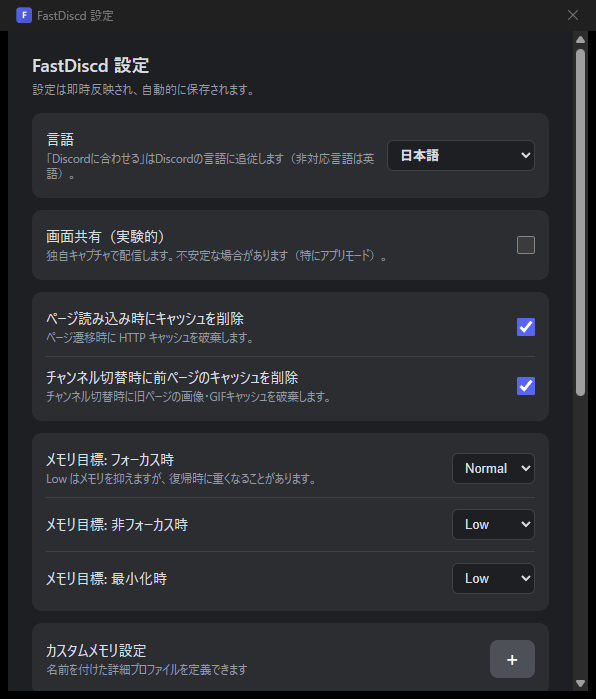
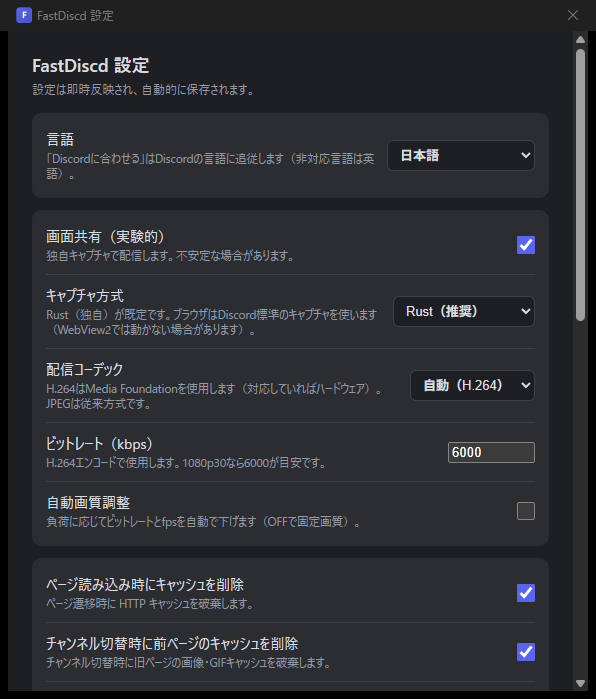
fix: settings save (null refs), add save&restart, cache clear feedback, adaptive quality toggle default off

diff --git a/src/settings.html b/src/settings.html
@@ -150,6 +150,12 @@
                 <div class="hint" data-i18n="bitrate.hint"></div>
             </div>
             <input type="number" id="screenShareBitrateKbps" min="500" max="30000" step="500" />
+        </div>        <div class="row">
+            <div class="label">
+                <span data-i18n="autoQuality.label"></span>
+                <div class="hint" data-i18n="autoQuality.hint"></div>
+            </div>
+            <input type="checkbox" id="autoQualityAdjust" />
         </div>
     </div>
     <div class="group">
@@ -268,6 +274,7 @@
 
     <div class="actions">
         <button class="secondary" id="clearNow" data-i18n="clearNow"></button>
+        <button id="saveRestart" data-i18n="saveRestart"></button>
         <button id="close" data-i18n="close"></button>
     </div>
     <div class="status" id="status"></div>
@@ -328,6 +335,9 @@
                 "codec.jpeg": "JPEG (legacy)",
                 "bitrate.label": "Bitrate (kbps)",
                 "bitrate.hint": "Used by H.264 encoding. 6000 is a good default for 1080p30.",
+                "autoQuality.label": "Adaptive quality",
+                "autoQuality.hint": "Lowers bitrate/fps automatically under load (off = fixed quality).",
+                "saveRestart": "Save and restart",
                 "shareMode.browser": "Browser (native)",
                 "mem.focused": "Memory target: focused",
                 "mem.unfocused": "Memory target: unfocused",
@@ -386,6 +396,9 @@
                 "codec.jpeg": "JPEG（従来）",
                 "bitrate.label": "ビットレート（kbps）",
                 "bitrate.hint": "H.264エンコードで使用します。1080p30なら6000が目安です。",
+                "autoQuality.label": "自動画質調整",
+                "autoQuality.hint": "負荷に応じてビットレートとfpsを自動で下げます（OFFで固定画質）。",
+                "saveRestart": "保存して再起動",
                 "shareMode.browser": "ブラウザ（標準）",
                 "mem.focused": "メモリ目標: フォーカス時",
                 "mem.unfocused": "メモリ目標: 非フォーカス時",
@@ -396,7 +409,7 @@
             }
         };
 
-        const fields = ["clearCacheOnNavigation", "clearCacheOnChannelChange", "reloadOnChannelSwitch", "startMinimized", "minimizeToTray", "hardwareAcceleration"];
+        const fields = ["clearCacheOnNavigation", "clearCacheOnChannelChange", "reloadOnChannelSwitch", "startMinimized", "minimizeToTray", "hardwareAcceleration", "autoQualityAdjust"];
         const $ = id => document.getElementById(id);
 
         let settings = null;
@@ -438,6 +451,7 @@
             $("screenShareMode").value = s.screenShareMode || "rust";
             $("screenShareCodec").value = s.screenShareCodec || "auto";
             $("screenShareBitrateKbps").value = s.screenShareBitrateKbps || 6000;
+            $("autoQualityAdjust").checked = !!s.autoQualityAdjust;
             var customName = s.customMemoryName || "Custom";
             ["memFocused", "memUnfocused", "memMinimized"].forEach(function (id) {
                 var sel = $(id);
@@ -458,8 +472,6 @@
                 clearCacheOnNavigation: $("clearCacheOnNavigation").checked,
                 clearCacheOnChannelChange: $("clearCacheOnChannelChange").checked,
                 reloadOnChannelSwitch: $("reloadOnChannelSwitch").checked,
-                suspendOnMinimize: $("suspendOnMinimize").checked,
-                lowMemoryOnBlur: $("lowMemoryOnBlur").checked,
                 startMinimized: $("startMinimized").checked,
                 minimizeToTray: $("minimizeToTray").checked,
                 hardwareAcceleration: $("hardwareAcceleration").checked,
@@ -470,6 +482,7 @@
                 screenShareMode: $("screenShareMode").value,
                 screenShareCodec: $("screenShareCodec").value,
                 screenShareBitrateKbps: Number($("screenShareBitrateKbps").value) || 6000,
+                autoQualityAdjust: $("autoQualityAdjust").checked,
                 memFocused: $("memFocused").value,
                 memUnfocused: $("memUnfocused").value,
                 memMinimized: $("memMinimized").value
@@ -530,12 +543,32 @@
         $("screenShareMode").addEventListener("change", save);
         $("screenShareCodec").addEventListener("change", save);
         $("screenShareBitrateKbps").addEventListener("change", save);
+        $("autoQualityAdjust").addEventListener("change", save);
+        $("saveRestart").addEventListener("click", async () => {
+            const payload = collect();
+            try {
+                await invoke("save_and_restart", { settings: payload });
+            } catch (e) {
+                $("status").textContent = t("status.saveError") + e;
+            }
+        });
 
         $("clearNow").addEventListener("click", async () => {
-            await invoke("clear_cache_now");
-            $("status").textContent = t("status.cacheCleared");
-            setTimeout(() => ($("status").textContent = ""), 1500);
+            $("status").textContent = "…";
+            try {
+                await invoke("clear_cache_now");
+            } catch (e) {
+                $("status").textContent = "キャッシュ削除に失敗: " + e;
+            }
         });
+        try {
+            if (tauriApi.event && tauriApi.event.listen) {
+                tauriApi.event.listen("fastdisc://cache-cleared", function () {
+                    $("status").textContent = t("status.cacheCleared");
+                    setTimeout(() => ($("status").textContent = ""), 1500);
+                });
+            }
+        } catch (e) { }
 
         $("close").addEventListener("click", () => invoke("close_settings"));
 

diff --git a/src-tauri/src/main.rs b/src-tauri/src/main.rs
@@ -62,6 +62,8 @@ struct Config {
     screen_share_bitrate_kbps: u32,
     /// 配信の最大fps
     screen_share_max_fps: u32,
+    /// 負荷に応じた自動画質調整（既定OFF）
+    auto_quality_adjust: bool,
 }
 
 impl Default for Config {
@@ -84,6 +86,7 @@ impl Default for Config {
             screen_share_codec: "auto".to_string(),
             screen_share_bitrate_kbps: 6000,
             screen_share_max_fps: 30,
+            auto_quality_adjust: false,
         }
     }
 }
@@ -132,6 +135,7 @@ fn main() {
             capture_start,
             request_jpeg_fallback,
             selected_size,
+            save_and_restart,
             probe_save,
             capture_stop,
             js_guard_error,
@@ -437,8 +441,36 @@ fn save_settings(app: AppHandle, settings: Config) {
 }
 
 #[tauri::command]
+fn save_and_restart(app: AppHandle, settings: Config) {
+    let zoom = settings.zoom.clamp(0.5, 2.0);
+    update_config(move |c| {
+        *c = settings;
+        c.zoom = zoom;
+        true
+    });
+    log("settings saved; restarting");
+    let _ = app.emit("fastdisc://restarting", ());
+    std::thread::sleep(Duration::from_millis(300));
+    app.restart();
+}
+
+#[tauri::command]
 fn clear_cache_now(app: AppHandle) {
     clear_cache_for(&app);
+    let handle = app.clone();
+    std::thread::spawn(move || {
+        std::thread::sleep(Duration::from_millis(800));
+        if let Some(window) = handle.get_webview_window("main") {
+            let _ = window.with_webview(|webview| {
+                let controller = webview.controller();
+                if let Ok(core) = (unsafe { controller.CoreWebView2() }) {
+                    collect_garbage(&core);
+                }
+            });
+        }
+        let _ = handle.emit("fastdisc://cache-cleared", ());
+        log("cache cleared (notified)");
+    });
 }
 
 #[tauri::command]
@@ -2234,7 +2266,7 @@ impl windows_capture::capture::GraphicsCaptureApiHandler for WgcHandler {
                 } else {
                     self.cost_ema * 0.8 + cost * 0.2
                 };
-                if self.last_adjust.elapsed() > Duration::from_secs(2) {
+                if cfg.auto_quality_adjust && self.last_adjust.elapsed() > Duration::from_secs(2) {
                     self.last_adjust = std::time::Instant::now();
                     let budget = 1000.0 / self.fps.max(1) as f32;
                     let gpu = gpu_encoder_utilization().unwrap_or(0);
